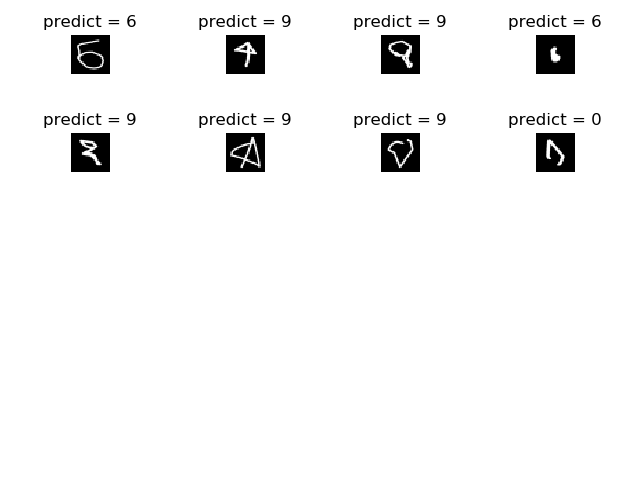
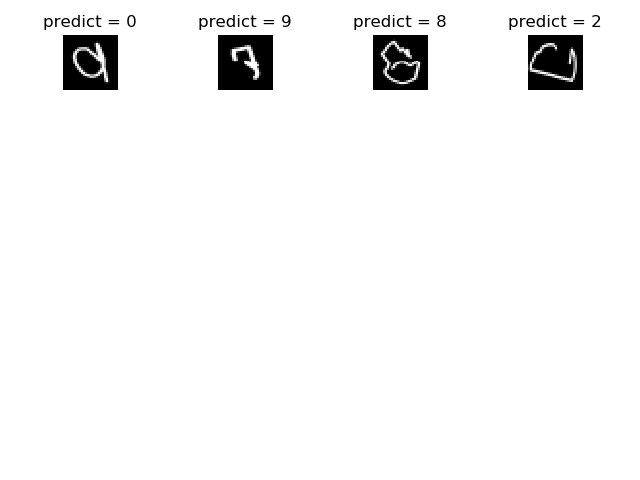
cross validation add

diff --git a/cnn+lstm_4_CV.py b/cnn+lstm_4_CV.py
@@ -40,20 +40,20 @@ dp.data_shuffle()
 
 
 size = int(np.size(dp.point,0) * 0.7)
-X_train = dp.point[:size]
+X_train = dp.point
 X_test = dp.point[size:]
 
-X_train_img = dp.images[:size]
+X_train_img = dp.images
 X_test_img = dp.images[size:]
-Y_train = dp.label[:size]
+Y_train = dp.label
 Y_test = dp.label[size:]
-Y_train = keras.utils.to_categorical(Y_train,num_classes=10, dtype='float32')
-Y_test = keras.utils.to_categorical(Y_test,num_classes=10, dtype='float32')
+#Y_train = keras.utils.to_categorical(Y_train,num_classes=10, dtype='float32')
+#Y_test = keras.utils.to_categorical(Y_test,num_classes=10, dtype='float32')
 
+folds = list(StratifiedKFold(n_splits=3, shuffle=True, random_state=1).split(X_train, Y_train))
 
-
-for i in range(np.size(X_train,0)):
-  X_train[i] = scaler.fit_transform(X_train[i])
+#for i in range(np.size(X_train,0)):
+  #X_train[i] = scaler.fit_transform(X_train[i])
 '''
   for j in range(np.size(X_train[i],0)):
     X_train[i][j][0] -= np.mean(X_train[i], axis=0)[0]
@@ -61,8 +61,8 @@ for i in range(np.size(X_train,0)):
     X_train[i][j][0] /= np.std(X_train[i],axis=0)[0]
     X_train[i][j][1] /= np.std(X_train[i],axis=0)[1]
 ''' 
-for i in range(np.size(X_test,0)):
-  X_test[i] = scaler.fit_transform(X_test[i])
+#for i in range(np.size(X_test,0)):
+  #X_test[i] = scaler.fit_transform(X_test[i])
 '''
   for j in range(np.size(X_test[i],0)):
     X_test[i][j][0] -= np.mean(X_test[i], axis=0)[0]
@@ -104,56 +104,97 @@ def test_generator():
 config = tf.ConfigProto()
 config.gpu_options.allow_growth = True
 sess = tf.Session(config=config)
+acc_list = []
 
-input_1 = Input(shape=(28, 28, 1))
+for j, (train_idx, val_idx) in enumerate(folds):
+  print('\n Fold',j)
+  X_train_cv = X_train[train_idx]
+  X_train_img_cv = X_train_img[train_idx]
+  X_valid_cv = X_train[val_idx]
+  X_valid_img_cv = X_train_img[val_idx]
 
-x_1 = Conv2D(32, kernel_size=5, padding="same", activation = 'relu')(input_1)
-x_1 = MaxPooling2D(pool_size=(2, 2), strides=(2, 2))(x_1)
-x_1 = Dropout(0.3)(x_1)
+  Y_train_cv = Y_train[train_idx]
+  Y_valid_cv = Y_train[val_idx]
 
-x_1 = Conv2D(64, kernel_size=3, padding="same", activation = 'relu')(x_1)
-x_1 = MaxPooling2D(pool_size=(3, 3), strides=(1, 1))(x_1)
-x_1 = Dropout(0.3)(x_1)
+  Y_train_cv = keras.utils.to_categorical(Y_train_cv,num_classes=10, dtype='float32')
+  Y_valid_cv = keras.utils.to_categorical(Y_valid_cv,num_classes=10, dtype='float32')
 
-x_1 = Conv2D(128, kernel_size=3, padding="same", activation = 'relu')(x_1)
-x_1 = MaxPooling2D(pool_size=(3, 3), strides=(1, 1))(x_1)
+  input_1 = Input(shape=(28, 28, 1))
 
-x_1 = Dropout(0.3)(x_1)
+  x_1 = Conv2D(32, kernel_size=5, padding="same", activation = 'relu')(input_1)
+  x_1 = MaxPooling2D(pool_size=(2, 2), strides=(2, 2))(x_1)
+  x_1 = Dropout(0.3)(x_1)
 
-x_1 = Flatten()(x_1)
-x_1 = Dense(units=512, activation='relu')(x_1)
+  x_1 = Conv2D(64, kernel_size=3, padding="same", activation = 'relu')(x_1)
+  x_1 = MaxPooling2D(pool_size=(3, 3), strides=(1, 1))(x_1)
+  x_1 = Dropout(0.3)(x_1)
 
+  x_1 = Conv2D(128, kernel_size=3, padding="same", activation = 'relu')(x_1)
+  x_1 = MaxPooling2D(pool_size=(3, 3), strides=(1, 1))(x_1)
 
-input_2 = Input(shape=(50, 2))
-x_2 = Conv1D(256,3,padding='valid',activation='relu',strides=1)(input_2)
-x_2 = MaxPooling1D(pool_size=3)(x_2)
-x_2 = Conv1D(256,3,padding='valid',activation='relu',strides=1)(x_2)
-x_2 = MaxPooling1D(pool_size=3)(x_2)
-x_2 = CuDNNLSTM(128)(x_2)
-'''
-x_2 = CuDNNGRU(128,return_sequences=True)(input_2)
-x_2 = Dropout(0.3)(x_2)
-x_2 = CuDNNGRU(128,return_sequences=True)(x_2)
-x_2 = Dropout(0.3)(x_2)
-x_2 = CuDNNGRU(128)(x_2)
-'''
+  x_1 = Dropout(0.3)(x_1)
 
-merged = concatenate([x_1,x_2])
-m = Dense(256, activation='relu')(merged)
-
-m = Dense(10, activation='softmax')(m)
-
-model = Model(inputs=[input_1, input_2], outputs = m)
-
-model.summary()
-model.compile(loss='categorical_crossentropy',
-                optimizer=keras.optimizers.Adam(lr=0.0001),
-                metrics=['accuracy'])
-
-#model.fit_generator(train_generator(),steps_per_epoch=2700, epochs=20,validation_data=test_generator(),validation_steps=300)
-model.fit([X_train_img,X_train],Y_train,epochs=100,batch_size=32,validation_data=([X_test_img,X_test],Y_test))
+  x_1 = Flatten()(x_1)
+  x_1 = Dense(units=512, activation='relu')(x_1)
 
 
+  input_2 = Input(shape=(50, 2))
+  '''
+  x_2 = Conv1D(256,3,padding='valid',activation='relu',strides=1)(input_2)
+
+  x_2 = Conv1D(256,3,padding='valid',activation='relu',strides=1)(x_2)
+
+  x_2 = CuDNNLSTM(128)(x_2)
+  '''
+  
+  x_2 = CuDNNLSTM(128,return_sequences=True)(input_2)
+  x_2 = Dropout(0.3)(x_2)
+  x_2 = CuDNNLSTM(128,return_sequences=True)(x_2)
+  x_2 = Dropout(0.3)(x_2)
+  x_2 = CuDNNLSTM(128)(x_2)
+  
+
+  merged = concatenate([x_1,x_2])
+  m = Dense(256, activation='relu')(merged)
+
+  m = Dense(10, activation='softmax')(m)
+
+  model = Model(inputs=[input_1, input_2], outputs = m)
+
+  #model.summary()
+  model.compile(loss='categorical_crossentropy',
+                  optimizer=keras.optimizers.Adam(lr=0.0001),
+                  metrics=['accuracy'])
+
+  #model.fit_generator(train_generator(),steps_per_epoch=2700, epochs=20,validation_data=test_generator(),validation_steps=300)
+  model.fit([X_train_img_cv,X_train_cv],Y_train_cv,epochs=100,batch_size=32,validation_data=([X_valid_img_cv,X_valid_cv],Y_valid_cv))
+  score = model.evaluate([X_valid_img_cv,X_valid_cv],Y_valid_cv)
+  scores = model.predict([X_valid_img_cv,X_valid_cv])
+  true_value = np.argmax(Y_valid_cv,1)
+  predict_value = np.argmax(scores,1)
+  list_ = []
+  for i in range(np.size(true_value,0)):
+    if(true_value[i] != predict_value[i]):
+      print('t:{},p:{}'.format(true_value[i],predict_value[i]))
+      list_.append(i)
+
+  print(score[1]*100)
+  upper = np.array([0,0,255])
+  lower = np.array([0,0,5])
+  acc_list.append(score[1]*100)
+
+  for i in list_:
+    img = np.ones((550, 550, 3), np.uint8) * 255
+    for k in range(len(X_valid_cv[i])):
+      if(k != len(X_valid_cv[i])-1):
+        cv2.line(img, (X_valid_cv[i][k][0],X_valid_cv[i][k][1]), (X_valid_cv[i][k+1][0],X_valid_cv[i][k+1][1]), (0,0,5*k+5), 20)
+    img = cv2.flip(img, 1)
+    mask = cv2.inRange(img, lower, upper)
+    #img = cv2.resize(img,(28,28),interpolation=cv2.INTER_AREA)
+    cv2.imwrite('./plot/lstm/{}lstm_seq{}{}.jpg'.format(i,true_value[i],predict_value[i]),img)
+
+print(acc_list)
+'''  
 score = model.evaluate([X_test_img,X_test],Y_test)
 scores = model.predict([X_test_img,X_test])
 true_value = np.argmax(Y_test,1)
@@ -199,3 +240,4 @@ sn.heatmap(df_cm, annot=True)
 
 plt.show()
 
+'''

diff --git a/cnn_CV.py b/cnn_CV.py
@@ -1,0 +1,112 @@
+import pandas as pd
+import numpy as np
+import os
+import cv2
+from sklearn.model_selection import train_test_split
+from sklearn.preprocessing import MinMaxScaler
+import keras
+from keras.models import Sequential
+from keras.layers import Dense, Dropout, Flatten, Activation
+from keras.layers.convolutional import Conv2D, MaxPooling2D
+import tensorflow as tf
+import keras.backend.tensorflow_backend as K
+import matplotlib.pyplot as plt
+from sklearn.model_selection import StratifiedKFold
+from imageloader import data_process
+columns = ['x','y', 'label']
+j = 0
+x_data = []
+y_data = []
+scaler = MinMaxScaler()
+
+dp = data_process('./DATA/test')
+dp.point_data_load()
+dp.image_make()
+dp.data_shuffle()
+
+size = int(np.size(dp.images,0) * 0.7)
+
+X_train = dp.images
+X_test = dp.images[size:]
+Y_train = dp.label
+Y_test = dp.label[size:]
+
+folds = list(StratifiedKFold(n_splits=3, shuffle=True, random_state=1).split(X_train, Y_train))
+
+acc_list = []
+#Y_train = keras.utils.to_categorical(Y_train,num_classes=10, dtype='float32')
+#Y_test = keras.utils.to_categorical(Y_test,num_classes=10, dtype='float32')
+for j, (train_idx, val_idx) in enumerate(folds):
+
+  print('\n Fold',j)
+  X_train_cv = X_train[train_idx]
+
+  X_valid_cv = X_train[val_idx]
+
+
+  Y_train_cv = Y_train[train_idx]
+  Y_valid_cv = Y_train[val_idx]
+
+  Y_train_cv = keras.utils.to_categorical(Y_train_cv,num_classes=10, dtype='float32')
+  Y_valid_cv = keras.utils.to_categorical(Y_valid_cv,num_classes=10, dtype='float32')
+
+  model = Sequential()
+  model.add(Conv2D(32, kernel_size=5, padding="same",input_shape=(28, 28, 1), activation = 'relu'))
+  model.add(MaxPooling2D(pool_size=(2, 2), strides=(2, 2)))
+  model.add(Conv2D(64, kernel_size=3, padding="same", activation = 'relu'))
+  model.add(MaxPooling2D(pool_size=(3, 3), strides=(1, 1)))
+  model.add(Conv2D(128, kernel_size=3, padding="same", activation = 'relu'))
+  model.add(MaxPooling2D(pool_size=(3, 3), strides=(1, 1)))
+  model.add(Flatten())
+  model.add(Dense(units=1024, activation='relu'  ))
+  model.add(Dropout(0.3))
+
+  model.add(Dense(10,activation='softmax'))
+
+  model.summary()
+
+  config = tf.ConfigProto()
+  config.gpu_options.allow_growth = True
+  sess = tf.Session(config=config)
+
+  model.compile(loss='categorical_crossentropy', optimizer='adam', metrics=['accuracy'])
+  hist = model.fit(X_train_cv, Y_train_cv,
+                  batch_size=32,
+                  validation_data=(X_valid_cv,Y_valid_cv),
+                  epochs=70,
+                  verbose=1)
+
+  score = model.evaluate(X_valid_cv, Y_valid_cv, verbose=0)
+  pred = model.predict(X_valid_cv)
+  true_value = np.argmax(Y_valid_cv,1)
+  predict_value = np.argmax(pred,1)
+
+  acc_list.append(score[1]*100)
+  print(np.argmax(pred,axis=1))
+  #print("복원된 모델의 정확도: {:5.2f}%".format(100*score))
+  list_ = []
+  for i in range(np.size(true_value,0)):
+    if(true_value[i] != predict_value[i]):
+      print('t:{},p:{}'.format(true_value[i],predict_value[i]))
+      list_.append(i)
+
+
+
+  ROW = 5
+  COLUMN = 4
+  j = 1
+  for i in list_:
+      if(j> 20):
+        j = 20
+      # train[i][0] is i-th image data with size 28x28
+      image = X_valid_cv[i].reshape(28, 28)   # not necessary to reshape if ndim is set to 2
+      plt.subplot(ROW, COLUMN, j)         # subplot with size (width 3, height 5)
+      j +=1
+      plt.imshow(image, cmap='gray')  # cmap='gray' is for black and white picture.
+      # train[i][1] is i-th digit label
+      plt.title('predict = {}'.format(np.argmax(pred[i],0)))
+      plt.axis('off')  # do not show axis value
+  plt.tight_layout()   # automatic padding between subplots
+  plt.savefig('./plot/cnn/cnn{}.png'.format(j))
+
+print(acc_list)

diff --git a/imageloader.py b/imageloader.py
@@ -93,10 +93,7 @@ class data_process:
       img = np.zeros((550, 550, 1), np.uint8)
       for k in range(len(self.point[i])):
         if(k != len(self.point[i])-1):
-          if(self.label[i] == 1):
-            cv2.line(img, (self.point[i][k][0],self.point[i][k][1]), (self.point[i][k+1][0],self.point[i][k+1][1]), (255,255,255), 20)
-          else:
-            cv2.line(img, (self.point[i][k][0],self.point[i][k][1]), (self.point[i][k+1][0],self.point[i][k+1][1]), (255,255,255), 20)
+          cv2.line(img, (self.point[i][k][0],self.point[i][k][1]), (self.point[i][k+1][0],self.point[i][k+1][1]), (255,255,255), 20)
 
       ret,thresh = cv2.threshold(img,10,255,0)
       contours,hierarchy = cv2.findContours(thresh, cv2.RETR_EXTERNAL, cv2.CHAIN_APPROX_NONE)
@@ -134,6 +131,7 @@ class data_process:
           img = img[y:y+h+20,x:x+w+20]
         else:
           img = img[y-40:y+h+40,x-40:x+w+40]
+      
       img = cv2.flip(img, 1)
       img = cv2.resize(img,(28,28),interpolation=cv2.INTER_AREA)
       j = 0

diff --git a/cnn.py b/cnn.py
@@ -18,7 +18,7 @@ x_data = []
 y_data = []
 scaler = MinMaxScaler()
 
-dp = data_process('./DATA/aug/all')
+dp = data_process('./DATA/test')
 dp.point_data_load()
 dp.image_make()
 dp.data_shuffle()

diff --git a/file remover.py b/file remover.py
@@ -14,7 +14,7 @@ import time
 
 import glob
 
-lis = [5265,531,517,]
+lis = [8153,99,933,992,9218,9217,9235,9250,9273,9275,9279,9285,9287,9282,9296]
 for i in lis:
     if i < 1000:
 
